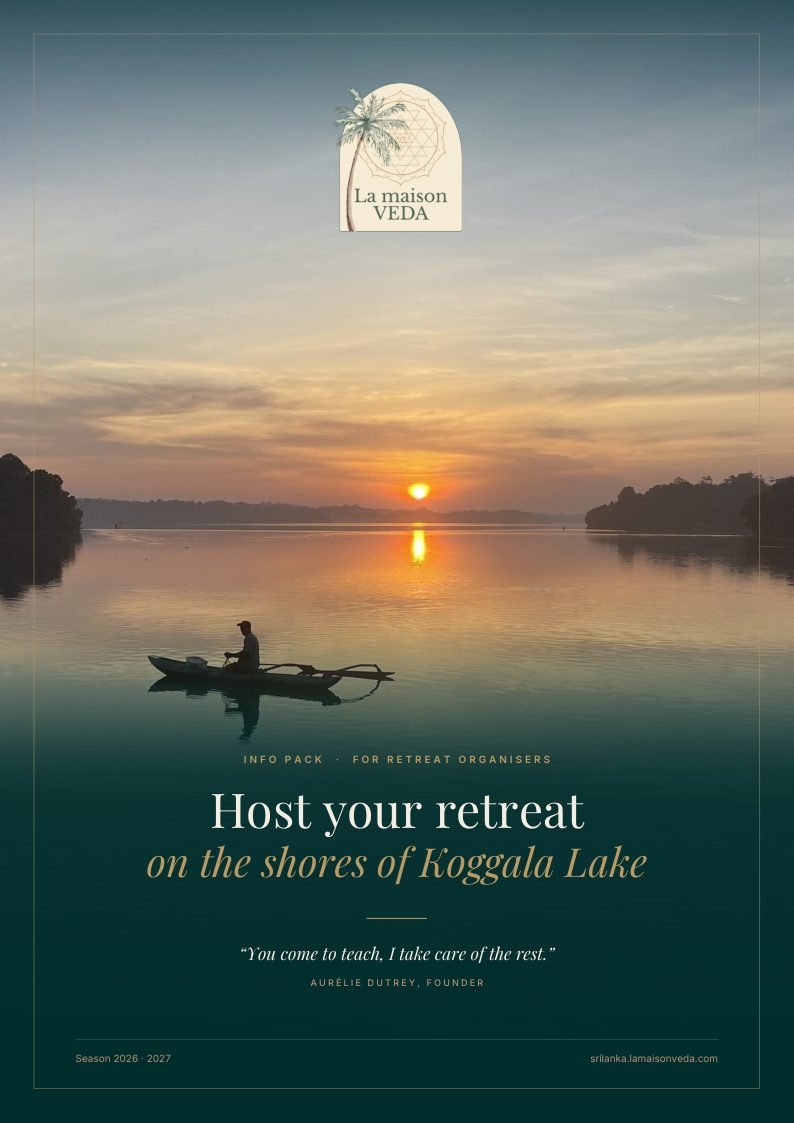
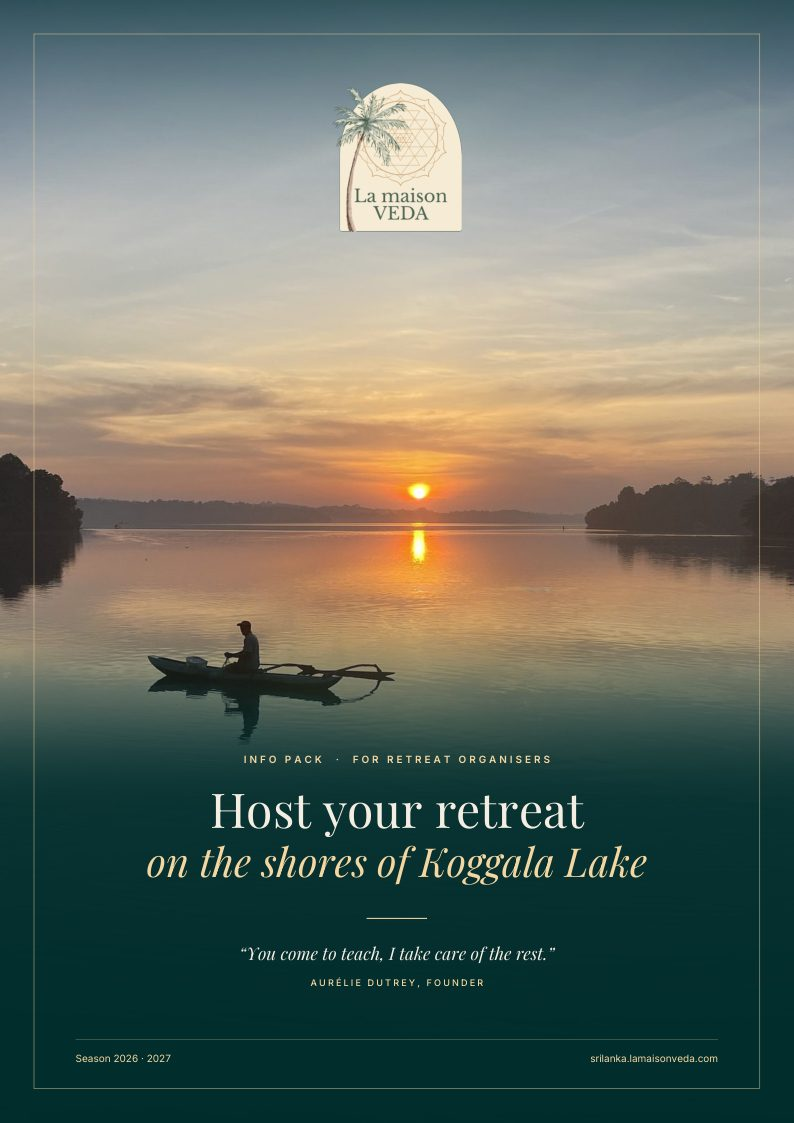
Un doré plus lumineux sur les fonds sombres
Sur le vert de la marque, le doré #B99B64 manquait d'éclat. Il passe à
#F4D7A2 partout où le fond est sombre : titres, boutons, liens, coches,
logo. Sur les sections crème et les cartes blanches, cette teinte claire
serait illisible, à peine plus foncée que le fond : l'ancien doré y
reste.

Les deux teintes passent par une variable, --veda-gold, que les fonds
clairs redéfinissent. Toute classe veda-gold, opacités comprises, prend
ainsi la teinte du fond sur lequel elle se trouve, sans toucher aux
composants. Vérifié sur neuf pages : 313 éléments dorés, chacun dans la
teinte de son fond.

Le yantra du logo portait son doré en dur dans le fichier SVG : il est
désormais posé en masque et teint par la couleur du texte, comme le nom
à côté de lui. La couverture de l'Info Pack, sombre, prend le même doré
clair ; ses pages intérieures, blanches, gardent l'ancien.

Changed region(s): [[0.3325, 0.748, 0.8161, 0.7792], [0.1814, 0.748, 0.3023, 0.7792]]

diff --git a/src/components/Logo.jsx b/src/components/Logo.jsx
@@ -16,11 +16,23 @@ const Logo = ({ className = "h-14 w-auto animate-fade-in", fill = "currentColor"
 
     return (
         <div className={`flex items-center gap-2 sm:gap-3 ${className}`}>
-            {/* Sri Yantra */}
-            <img
-                src={getImageUrl('/icon-logo-final/logo-lili-maison-veda-bigger.svg')}
-                alt="La Maison Veda"
-                className="h-full w-auto"
+            {/* Le yantra, teint par la couleur du texte. Le fichier SVG porte son
+                doré en dur, qu'une image ne laisse pas changer : posé en masque,
+                il prend le doré du thème, comme le nom à côté de lui. */}
+            <span
+                aria-hidden="true"
+                className="block h-full shrink-0 bg-current"
+                style={{
+                    aspectRatio: '687.7 / 716.99',
+                    WebkitMaskImage: `url(${getImageUrl('/icon-logo-final/logo-lili-maison-veda-bigger.svg')})`,
+                    maskImage: `url(${getImageUrl('/icon-logo-final/logo-lili-maison-veda-bigger.svg')})`,
+                    WebkitMaskSize: 'contain',
+                    maskSize: 'contain',
+                    WebkitMaskRepeat: 'no-repeat',
+                    maskRepeat: 'no-repeat',
+                    WebkitMaskPosition: 'center',
+                    maskPosition: 'center',
+                }}
             />
 
             <div className="flex flex-col justify-center leading-none">

diff --git a/src/components/site/RetreatSimulator.jsx b/src/components/site/RetreatSimulator.jsx
@@ -152,7 +152,7 @@ export default function RetreatSimulator() {
                 <div className="rounded-2xl border border-veda-dark/10 bg-white p-6 shadow-card">
                     <label className="flex cursor-pointer items-start gap-4">
                         <input type="checkbox" checked={pension} onChange={(e) => setPension(e.target.checked)}
-                               className="mt-1 h-5 w-5 shrink-0 accent-[#b99b64]" />
+                               className="mt-1 h-5 w-5 shrink-0 accent-veda-gold" />
                         <span>
                             <span className="font-heading text-lg text-veda-dark">{t('host.simBoard')}</span>
                             <span className="mt-1 block text-sm font-light leading-relaxed text-veda-dark/60">

diff --git a/src/index.css b/src/index.css
@@ -29,6 +29,23 @@
   }
 }
 
+/* Le doré de la marque, en deux teintes.
+   Claire (#F4D7A2) sur les fonds sombres, où l'ancien doré manquait d'éclat.
+   L'ancienne (#B99B64) sur les fonds crème et blancs, où la teinte claire,
+   à peine plus foncée que le fond, deviendrait illisible. Toute classe
+   veda-gold prend ainsi la teinte du fond sur lequel elle se trouve ; un
+   bloc sombre posé dans une zone claire retrouve la teinte claire. */
+:root {
+  --veda-gold: 244 215 162;
+}
+.bg-veda-cream,
+.bg-white {
+  --veda-gold: 185 155 100;
+}
+.bg-veda-dark {
+  --veda-gold: 244 215 162;
+}
+
 body {
   background-color: #002d2c;
   color: #f5f5f5;

diff --git a/tailwind.config.js b/tailwind.config.js
@@ -9,7 +9,9 @@ export default {
             colors: {
                 veda: {
                     dark: '#002d2c',
-                    gold: '#b99b64',
+                    // Deux teintes selon le fond, par la variable --veda-gold
+                    // (src/index.css). Les opacités (/20, /50…) restent possibles.
+                    gold: 'rgb(var(--veda-gold) / <alpha-value>)',
                     sand: '#b49174',
                     light: '#f5f5f5',
                     cream: '#fdfbf7', // paper-cream, fond des sections claires

diff --git a/nouveau-site/outils/build_info_pack.py b/nouveau-site/outils/build_info_pack.py
@@ -42,6 +42,9 @@ SABLE = colors.HexColor('#b49174')
 CREME = colors.HexColor('#fdfbf7')
 GRIS = colors.HexColor('#4a4a4a')
 IVOIRE = colors.HexColor('#f4eee3')
+# Doré clair, celui du site sur les fonds sombres : sur le vert de la couverture,
+# le doré des pages intérieures manquait d'éclat.
+OR_CLAIR = colors.HexColor('#f4d7a2')
 
 
 def enregistrer_polices():
@@ -255,7 +258,7 @@ def couverture(canvas, doc, langue):
     canvas.drawImage(photo_de_couverture(), 0, 0, width=L, height=H)
 
     # Filet doré intérieur, comme un passe-partout.
-    canvas.setStrokeColor(OR)
+    canvas.setStrokeColor(OR_CLAIR)
     canvas.setStrokeAlpha(0.55)
     canvas.setLineWidth(0.6)
     canvas.rect(9 * mm, 9 * mm, L - 18 * mm, H - 18 * mm, stroke=1, fill=0)
@@ -268,30 +271,30 @@ def couverture(canvas, doc, langue):
         canvas.drawImage(str(LOGO), centre - largeur_logo / 2, H - 22 * mm - hauteur_logo,
                          width=largeur_logo, height=hauteur_logo, mask='auto')
 
-    texte_espace(canvas, t['surtitre'], centre, 95 * mm, 'Inter-SemiBold', 7.5, 2.2, OR)
+    texte_espace(canvas, t['surtitre'], centre, 95 * mm, 'Inter-SemiBold', 7.5, 2.2, OR_CLAIR)
 
     canvas.setFillColor(IVOIRE)
     canvas.setFont('PlayfairDisplay-Regular', 36)
     canvas.drawCentredString(centre, 78 * mm, t['titre'])
-    canvas.setFillColor(OR)
+    canvas.setFillColor(OR_CLAIR)
     canvas.setFont('PlayfairDisplay-RegularItalic', 30)
     canvas.drawCentredString(centre, 65 * mm, t['accent'])
 
-    canvas.setStrokeColor(OR)
+    canvas.setStrokeColor(OR_CLAIR)
     canvas.setLineWidth(0.8)
     canvas.line(centre - 8 * mm, 54 * mm, centre + 8 * mm, 54 * mm)
 
     canvas.setFillColor(IVOIRE)
     canvas.setFont('PlayfairDisplay-RegularItalic', 13)
     canvas.drawCentredString(centre, 43 * mm, t['citation'])
-    texte_espace(canvas, t['signature'], centre, 36 * mm, 'Inter-Medium', 6.8, 1.6, SABLE)
+    texte_espace(canvas, t['signature'], centre, 36 * mm, 'Inter-Medium', 6.8, 1.6, OR_CLAIR)
 
-    canvas.setStrokeColor(OR)
+    canvas.setStrokeColor(OR_CLAIR)
     canvas.setStrokeAlpha(0.45)
     canvas.setLineWidth(0.4)
     canvas.line(20 * mm, 22 * mm, L - 20 * mm, 22 * mm)
     canvas.setStrokeAlpha(1)
-    canvas.setFillColor(SABLE)
+    canvas.setFillColor(OR_CLAIR)
     canvas.setFont('Inter-Regular', 7.5)
     canvas.drawString(20 * mm, 16 * mm, f"{t['saison']} {saison_en_cours()}")
     canvas.drawRightString(L - 20 * mm, 16 * mm, 'srilanka.lamaisonveda.com')
